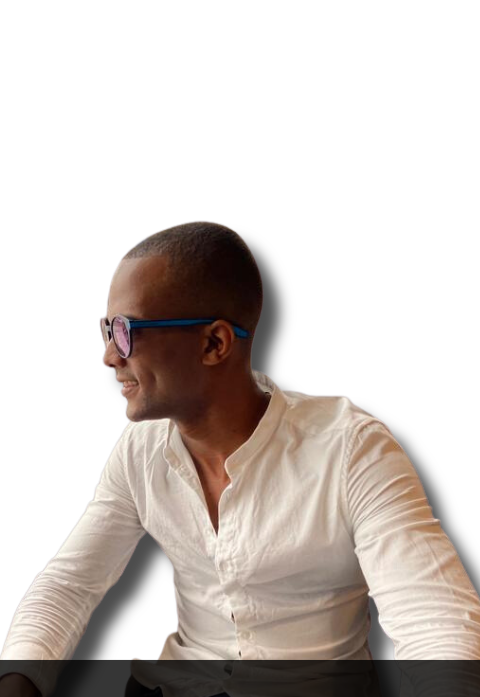
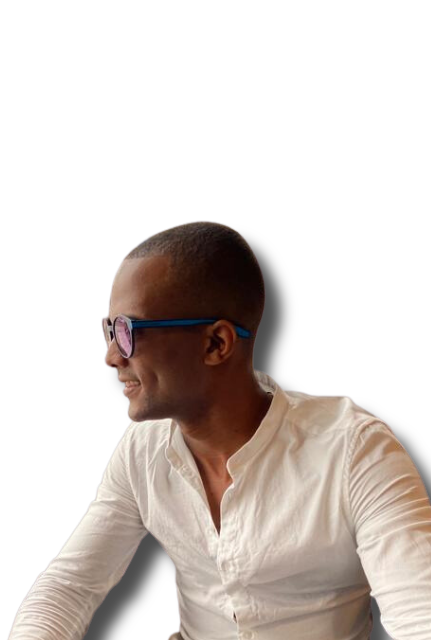
last changes before deployment

diff --git a/index.html b/index.html
@@ -54,8 +54,10 @@
                         Knowledge in agile methodologies, GIT, data structure, algorithms, CSS frameworks, and many more...</p>
                         <a href="#" class="btn">Download my CV</a>    
                     </div>
+                    <div class="circle"><div class="circle-2"></div></div>
+                      
                     <div class="home-img padd-15">
-                        <img src="images/andres.png" alt="">                        
+                        <img src="images/andres.png" alt="">                       
                     </div>
                 </div>
             </div>
@@ -332,30 +334,30 @@
                     <!-- Contact info item End -->
                     <h3 class="contact-titles padd-15">SEND ME AN EMAIL</h3>
                     <!-- Contact Form -->
-                    <div class="contact-form padd-15">
+                    <form action="https://formsubmit.co/guerrero9510@hotmail.com" method="post" class="contact-form padd-15">
                         <div class="row">
                             <div class="form-item col-6 padd-15">
                                 <div class="form-group">
-                                    <input type="text" class="form-control" placeholder="Name">
+                                    <input name="name" type="text" class="form-control" placeholder="Name">
                                 </div>
                             </div>
                             <div class="form-item col-6 padd-15">
                                 <div class="form-group">
-                                    <input type="email" class="form-control" placeholder="Email">
+                                    <input name="email" type="email" class="form-control" placeholder="Email">
                                 </div>
                             </div>
                         </div>
                         <div class="row">
                             <div class="form-item col-12 padd-15">
                                 <div class="form-group">
-                                    <input type="text" class="form-control" placeholder="Subject">
+                                    <input name="subject" type="text" class="form-control" placeholder="Subject">
                                 </div>
                             </div>
                         </div>
                         <div class="row">
                             <div class="form-item col-12 padd-15">
                                 <div class="form-group">
-                                    <textarea name="" class="form-control" id="" placeholder="Message"></textarea>
+                                    <textarea name="message" class="form-control" id="" placeholder="Message"></textarea>
                                 </div>
                             </div>
                         </div>
@@ -364,7 +366,7 @@
                                 <button type="submit" class="btn btn-form">Send Message</button>
                             </div>
                         </div>                                               
-                    </div>
+                    </form>
                 </div>
             </div>
         </section>

diff --git a/css/style.css b/css/style.css
@@ -260,16 +260,27 @@ h3.my-profession {
 
 .home-info p {
     margin-bottom: 70px;
-    font-size: 18px;
+    font-size: 16px;
     color: var(--text-black-700);
     text-align: justify;
 }
 
+.circle {
+    position: absolute;
+    background: var(--skin-color);
+    clip-path: circle(50%);
+    height: 450px;
+    width: 450px;
+    right: -90px;
+    top: -1px;
+   
+}
+
 .home .home-img img {
     position: absolute;
-    height: 550px;
-    top: -91px;
-    right: -44px;
+    height: 600px;
+    top: -151px;
+    right: -60px;
 }
 
 .home p{
